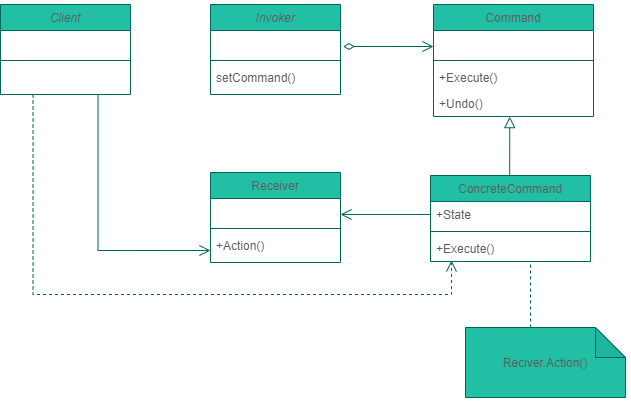
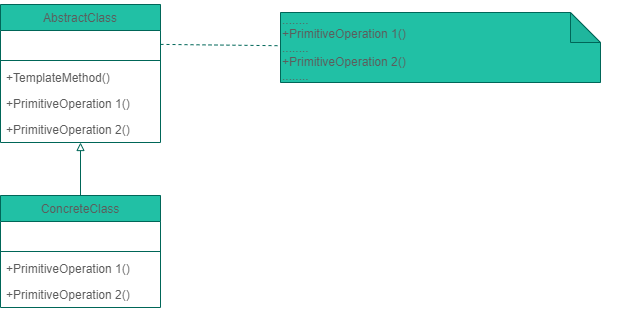
adjust note

diff --git a/Program.cs b/Program.cs
@@ -9,7 +9,7 @@ namespace DesignPattern_thomas
             // CoffeeTempleteMethod();
             // TeaTempleteMethod();
             // CommanPattern();
-            CommanPattern1();
+            CommanPattern_market();
         }
 
         #region TempleteMethod
@@ -59,11 +59,11 @@ namespace DesignPattern_thomas
             Console.WriteLine("=====================");
             Console.Read();
         }
-        static void CommanPattern1()
+        static void CommanPattern_market()
         {
-            var modifyPrice = new ModifyPrice();// 發命令物件
+            var modifyPrice = new ModifyPrice();// Invoker 發命令物件
             var CurrentPrice = 30000;
-            var product = new Product("iPhone 13", CurrentPrice);// 執行命令物件
+            var product = new Product("iPhone 13", CurrentPrice);// Reciver 執行命令物件
 
             Console.WriteLine(product);
             Execute(modifyPrice, new ProductCommand(product, PriceAction.Increase, 100));
@@ -71,7 +71,11 @@ namespace DesignPattern_thomas
             Execute(modifyPrice, new ProductCommand(product, PriceAction.Decrease, 25));
             Execute(modifyPrice, new ProductCommand(product, PriceAction.Increase, 70));
             Console.WriteLine(product);
-            Console.WriteLine("====取消命令====");
+            Console.WriteLine("====回復====");
+            modifyPrice.Undo();
+            modifyPrice.Undo();
+            modifyPrice.Undo();
+            modifyPrice.Undo();
             modifyPrice.Undo();
             Console.WriteLine(product);
         }

diff --git a/CommandPattern/Product/ModifyPrice.cs b/CommandPattern/Product/ModifyPrice.cs
@@ -1,5 +1,6 @@
 using System.Collections.Generic;
 using System.Linq;
+using System;
 // Invoker:用來發出命令的類別
 public class ModifyPrice
 {
@@ -20,6 +21,19 @@ public class ModifyPrice
     }
 
     public void Undo()
+    {
+        try
+        {
+            var cmd = _commands[0];
+            _commands.Remove(cmd);
+            cmd.UndoAction();
+        }
+        catch
+        {
+            Console.WriteLine("[復原失敗] --- 查無記錄");
+        }
+    }
+    public void UndoAll()
     {
         // 反轉並依序取消
         foreach (var command in Enumerable.Reverse(_commands))

diff --git a/Note/CommandPattern.md b/Note/CommandPattern.md
@@ -1,10 +1,33 @@
 # Command Pattern 命令模式
 
-命令模式將「請求」封裝成物件，以便使用不同的請求、佇列、或者日誌，參數化其他物件。命令模式也支援可復原的作業。
+### 命令模式將「請求」封裝成物件，以便使用不同的請求、佇列、或者日誌，參數化其他物件。命令模式也支援可復原的作業。
+
+
+- Client (負責建立 具體命令 並組裝 接收者):
+
+	`建立具體的命令物件 (ConcreteCommand)，並設定其接收者 (Receiver)，此處的 Client 是站在『命令模式』的立場，而非泛指的『客戶』`
+
+- Invoker (負責儲存與呼叫命令):
+
+	`儲存具體的命令物件 (ConcreteCommand) ，並負責呼叫該命令 —— ConcreteCommand.Execute()，若該 Command 有實作 『復原』功能，則在執行之前，先儲存其狀態(ModifyPrice)`
+
+- Command (負責制定命令使用介面):
+
+	`如其名，是此模式的關鍵之處 。『至少』會含有一個 Execute() 的抽象操作 (方法) (abstract operation)(ICommand)`
+
+- Receiver (負責執行命令的內容):
+
+	`知道如何根據命令的請求，執行任務內容，因此任何能實現命令請求的類別，都有可能當作 Receiver(Product)`
+
+- ConcreteCommand (負責呼叫 Receiver 的對應操作):
+
+	`具體的命令類別，通常持有 Receiver物件(ProductCommand)`
+
 ![樣板方法](command_pattern.png)
 
-命令模式介面
 
+
+#### Command
 <pre>
 <code>
 public interface ICommand
@@ -15,6 +38,7 @@ public interface ICommand
 </code>
 </pre>
 
+#### Invoker
 <pre>
 <code>
 public class ModifyPrice
@@ -37,7 +61,20 @@ public class ModifyPrice
 
     public void Undo()
     {
-        // 反轉並依序復原
+        try
+        {
+            var cmd = _commands[0];
+            _commands.Remove(cmd);
+            cmd.UndoAction();
+        }
+        catch
+        {
+            Console.WriteLine("[復原失敗] --- 查無記錄");
+        }
+    }
+    public void UndoAll()
+    {
+        // 反轉並依序取消
         foreach (var command in Enumerable.Reverse(_commands))
         {
             command.UndoAction();
@@ -47,6 +84,38 @@ public class ModifyPrice
 </code>
 </pre>
 
+#### Receiver
+<pre>
+<code>
+public class Product
+{
+    public string Name { get; set; }
+    public int Price { get; set; }
+
+    public Product(string name, int price)
+    {
+        Name = name;
+        Price = price;
+    }
+    public void IncreasePrice(int amount)
+    {
+        Price += amount;
+        Console.WriteLine($"商品:[{Name}] , 價格:+ {amount}.");
+    }
+    public void DecreasePrice(int amount)
+    {
+        if (amount < Price)
+        {
+            Price -= amount;
+            Console.WriteLine($"商品:[{Name}] , 價格:- {amount}.");
+        }
+    }
+    public override string ToString() => $"商品:[{Name}] , 價格={Price}.";
+}
+</code>
+</pre>
+
+#### ConcreteCommand
 <pre>
 <code>
 public enum PriceAction
@@ -95,6 +164,31 @@ public class ProductCommand : ICommand
 </code>
 </pre>
 
+<pre>
+<code>
+static void CommanPattern_market()
+{
+    var modifyPrice = new ModifyPrice();// Invoker 發命令物件
+    var CurrentPrice = 30000;
+    var product = new Product("iPhone 13", CurrentPrice);// Reciver 執行命令物件
+
+    Console.WriteLine(product);
+    Execute(modifyPrice, new ProductCommand(product, PriceAction.Increase, 100));
+    Execute(modifyPrice, new ProductCommand(product, PriceAction.Increase, 50));
+    Execute(modifyPrice, new ProductCommand(product, PriceAction.Decrease, 25));
+    Execute(modifyPrice, new ProductCommand(product, PriceAction.Increase, 70));
+    Console.WriteLine(product);
+    Console.WriteLine("====回復====");
+    modifyPrice.Undo();
+    Console.WriteLine(product);
+}
+private static void Execute(ModifyPrice modifyPrice, ICommand productCommand)
+{
+    modifyPrice.SetCommand(productCommand);
+    modifyPrice.Invoke();
+}
+</code>
+</pre>
 
 Result:
 

diff --git a/Note/TemplateMethod.md b/Note/TemplateMethod.md
@@ -1,10 +1,17 @@
-# Template Method 範本方法
+# Template Method Pattern 範本方法模式
 
-樣板方法(範本方法)模式將一個演算法的骨架定義在一個方法中，而演算法本身會用到的一些方法，則是定義在次類別中。樣板方法讓次類別在不改變演算法架構的情況下，重新定義演算法中的某些步驟。
+- 樣板方法(範本方法)模式將一個演算法的骨架定義在一個方法中，而演算法本身會用到的一些方法，則是定義在次類別中。樣板方法讓次類別在不改變演算法架構的情況下，重新定義演算法中的某些步驟。
+- 模板方法是一個定義在父類別的方法，在模板方法中會呼叫多個定義在父類別的其他方法，而這些方法有可能只是抽象方法並沒有實作，模板方法僅決定這些抽象方法的執行順序，這些抽象方法的實作由子類別負責，並且子類別不允許覆寫模板方法。
+- 那演算法透過了樣板方法帶給我們什麼好處？
+	- 1.透過超類別保護演算法，因演算法只存在超類別，容易修改。(超類別專注在演算法本身)
+	- 2.次類別的程式碼再用性極大，由次類別來實踐完整的程式碼
 ![樣板方法](template_method.png)
 
 假設開了一家飲料店,泡咖啡跟泡茶的SOP如下
-
+<html>
+<table style="width:100%">
+<tr>
+<td>
 <pre>
 <code>
 public class Coffee {
@@ -28,29 +35,35 @@ public class Coffee {
 </code>
 </pre>
 
+</td>
+<td>
 <pre>
 <code>
-public class Coffee {
-    // 這是店裡統一的泡咖啡SOP
+public class Tea {
+    // 這是店裡統一的泡茶SOP
     void prepareRecipe()
     {
         // 煮開水
         boilWater();
 
-        // 用沸水沖泡咖啡
-        brewCoffeeGrinds();
+        // 用沸水沖泡茶包
+        steepTeaBag();
 
-        // 把咖啡倒進杯子
+        // 把茶倒進杯子
         pourInCup();
 
-        // 加糖和牛奶
-        addSugarAndMilk();
+        // 加檸檬
+        addSLemon();
     }
-
     // 底下省略這些方法的實作...
 }
 </code>
 </pre>
+</td>
+</tr>
+</table>
+</html>
+
 prepareRecipe看起來好像喔，應該可以抽象化。第一步很自然的把一些一樣的方法，如biolWater 跟 pourInCup，放到超類別裡，就稱為 Beverage。而雖然咖啡是沖泡「咖啡」、加糖跟牛奶，茶是沖泡「茶葉」、加檸檬，兩種飲料加的東西不一樣，但是做的「動作」是一樣的，只是處裡不同的原料而已。有了這些想法後，就可以來改上面的程式碼了：
 <pre>
 <code>

diff --git a/README.md b/README.md
@@ -1,1 +1,7 @@
 # DesignPattern
+
+## Template Method Pattern
+[TemplateMethod](https://github.com/ThomasShiu/DesignPattern/blob/master/Note/CommandPattern.md)
+
+## Command Pattern
+[CommandPattern](https://github.com/ThomasShiu/DesignPattern/blob/master/Note/CommandPattern.md)
